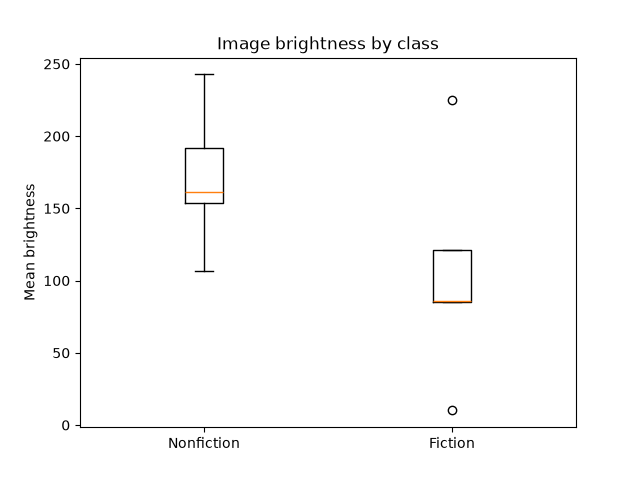
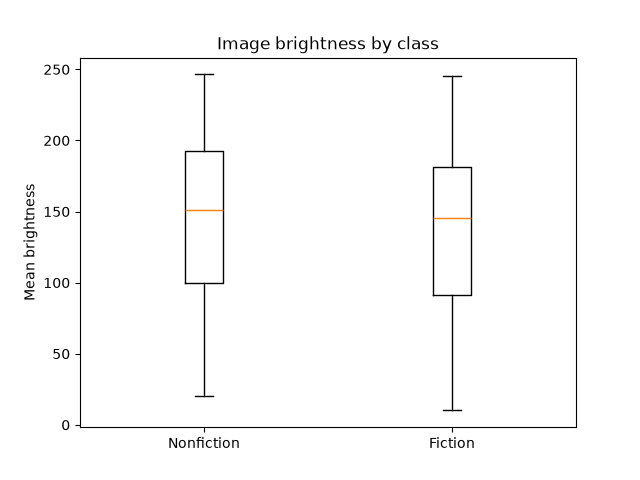
Testkodklass

diff --git a/src/train.py b/src/train.py
@@ -17,6 +17,8 @@ from textFeatures import tfidf_features
 from numericFeatures import numeric_features
 
 RANDOM_STATE = 42
+PROJECT_DIR = Path(__file__).resolve().parents[1]
+RESULTS_DIR = PROJECT_DIR / "results"
 
 # MultinomialNB fails on negative values, so it only runs on these feature sets.
 # StandardScaler (numeric features) and PCA (grayscale) produce negative values.
@@ -44,11 +46,12 @@ def get_feature_sets():
     }
 
 
-# Temporary until data/books_clean.csv exists (sync point 1).
-# Then replace with pd.read_csv("data/books_clean.csv").
-def load_raw_data(path="books_data_raw.json"):
+def load_raw_data(path=None):
     """Load the raw scraped JSON into a DataFrame with a label column."""
-    with open(path, encoding="utf-8") as f:
+    data_path = PROJECT_DIR / "books_data_raw.json" if path is None else Path(path)
+    if not data_path.is_absolute():
+        data_path = PROJECT_DIR / data_path
+    with data_path.open(encoding="utf-8") as f:
         records = json.load(f)
     df = pd.DataFrame(records)
     df["label"] = (df["category"] == "Fiction").astype(int)
@@ -123,14 +126,15 @@ def inspect_best_model(df):
         df["label"], preds, display_labels=["Nonfiction", "Fiction"]
     )
     plt.title(f"{BEST_FEATURES} + {BEST_MODEL}")
-    plt.savefig("results/confusion_matrix.png", dpi=150, bbox_inches="tight")
+    RESULTS_DIR.mkdir(exist_ok=True)
+    plt.savefig(RESULTS_DIR / "confusion_matrix.png", dpi=150, bbox_inches="tight")
     plt.close()
 
     is_wrong = preds != df["label"]
     wrong = df.loc[is_wrong, ["title", "category"]].copy()
     wrong["predicted"] = np.where(preds[is_wrong] == 1, "Fiction", "Nonfiction")
     print(f"\n{len(wrong)} misclassified books")
-    wrong.to_csv("results/misclassified.csv", index=False)
+    wrong.to_csv(RESULTS_DIR / "misclassified.csv", index=False)
 
     # Top words come from a model fitted on all the data, since they describe it rather than score it.
     if BEST_FEATURES == "TF-IDF" and BEST_MODEL == "Logistic regression":
@@ -150,7 +154,7 @@ def inspect_best_model(df):
         })
         print("\nTop words")
         print(top_words.round(3).to_string(index=False))
-        top_words.to_csv("results/top_words.csv", index=False)
+        top_words.to_csv(RESULTS_DIR / "top_words.csv", index=False)
     else:
         print("Top words are only available for TF-IDF + Logistic regression.")
 
@@ -160,7 +164,7 @@ if __name__ == "__main__":
     table = results_table(df)
     print(table.round(3).to_string(index=False))
 
-    Path("results").mkdir(exist_ok=True)
-    table.to_csv("results/results_table.csv", index=False)
+    RESULTS_DIR.mkdir(exist_ok=True)
+    table.to_csv(RESULTS_DIR / "results_table.csv", index=False)
 
     inspect_best_model(df)

diff --git a/src/imageAnalysis.py b/src/imageAnalysis.py
@@ -1,14 +1,18 @@
+import json
 import numpy as np
 import pandas as pd
 import matplotlib.pyplot as plt
 from PIL import Image
-import os
+from pathlib import Path
 
-project_dir = os.path.dirname(os.path.dirname(os.path.abspath(__file__)))
-results_dir = os.path.join(os.path.dirname(__file__), "..", "results")
+PROJECT_DIR = Path(__file__).resolve().parents[1]
+RESULTS_DIR = PROJECT_DIR / "results"
 
 def mean_colour_and_brightness(path):
-    with Image.open(path) as img:
+    image_path = Path(path)
+    if not image_path.is_absolute():
+        image_path = PROJECT_DIR / image_path
+    with Image.open(image_path) as img:
         rgb = np.asarray(img.convert("RGB"))
         gray = np.asarray(img.convert("L"))
     r = rgb[:, :, 0].mean()
@@ -17,15 +21,10 @@ def mean_colour_and_brightness(path):
     brightness = gray.mean()
     return r, g, b, brightness
 
-
 def main():
-    df = pd.DataFrame({
-        "img_path": [
-            os.path.join(project_dir, "test_images", f"{i}.jpg")
-            for i in range(10)
-        ],
-        "label": [1] * 5 + [0] * 5,
-    })
+    with (PROJECT_DIR / "books_data_raw.json").open(encoding="utf-8") as f:
+        df = pd.DataFrame(json.load(f))
+    df["label"] = (df["category"] == "Fiction").astype(int)
 
     rows = []
     for path in df["img_path"]:
@@ -38,14 +37,14 @@ def main():
     print(means)
     print(stats.groupby("label")["brightness"].mean())
 
-    os.makedirs(results_dir, exist_ok=True)
+    RESULTS_DIR.mkdir(exist_ok=True)
     means.rename(index={0: "Nonfiction", 1: "Fiction"}).plot(
         kind="bar", color=["red", "green", "blue"]
     )
     plt.ylabel("Mean RGB value")
     plt.title("Mean colour by class")
     plt.xticks(rotation=0)
-    plt.savefig(os.path.join(results_dir, "image_colour_by_class.png"))
+    plt.savefig(RESULTS_DIR / "image_colour_by_class.png")
     plt.close()
 
     brightness_by_class = [
@@ -55,7 +54,7 @@ def main():
     plt.boxplot(brightness_by_class, tick_labels=["Nonfiction", "Fiction"])
     plt.ylabel("Mean brightness")
     plt.title("Image brightness by class")
-    plt.savefig(os.path.join(results_dir, "image_brightness_by_class.png"))
+    plt.savefig(RESULTS_DIR / "image_brightness_by_class.png")
     plt.close()
 
 

diff --git a/src/scraper.py b/src/scraper.py
@@ -3,7 +3,9 @@ from urllib.parse import urljoin
 from bs4 import BeautifulSoup as bSoup
 import json
 import re
-import os
+from pathlib import Path
+
+PROJECT_DIR = Path(__file__).resolve().parents[1]
 
 # store url in variable urlFiction and urlNonFiction
 urlFiction = "https://books.toscrape.com/catalogue/category/books/fiction_10/index.html"
@@ -68,21 +70,22 @@ def get_book_details(book_url):
     }
 #image downloader 
 def download_image(img_url, upc):
-    os.makedirs("data/images", exist_ok=True)
-    img_path = f"data/images/{upc}.jpg"
+    relative_path = Path("data") / "images" / f"{upc}.jpg"
+    img_path = PROJECT_DIR / relative_path
+    img_path.parent.mkdir(parents=True, exist_ok=True)
 
-    if os.path.exists(img_path): 
-        return img_path
+    if img_path.exists():
+        return relative_path.as_posix()
     
     try:
         data = uOpen(img_url).read()
-        with open(img_path, "wb") as f:
+        with img_path.open("wb") as f:
             f.write(data)
     except Exception as e:
         print(f"Image failed for {upc}: {e}")
         return ""
 
-    return img_path
+    return relative_path.as_posix()
 
 # scrape every book across every page of one category
 # returns {book_title: {img, description, price} }
@@ -129,7 +132,7 @@ def main():
     nonFiction = scrape_category(urlNonFiction, "Nonfiction")
  
  
-    with open("books_data_raw.json", "w", encoding="utf-8") as f:
+    with (PROJECT_DIR / "books_data_raw.json").open("w", encoding="utf-8") as f:
         records = fiction + nonFiction
         json.dump(records, f, indent=2, ensure_ascii=False)
  

diff --git a/src/imageFeatures.py b/src/imageFeatures.py
@@ -3,10 +3,21 @@ from PIL import Image
 from sklearn.preprocessing import FunctionTransformer
 from sklearn.pipeline import make_pipeline
 from sklearn.decomposition import PCA
+from pathlib import Path
+
+
+PROJECT_DIR = Path(__file__).resolve().parents[1]
+
+
+def resolve_image_path(path):
+    image_path = Path(path)
+    if not image_path.is_absolute():
+        image_path = PROJECT_DIR / image_path
+    return image_path
 
 
 def histogram_one_image(path):
-    with Image.open(path) as img:
+    with Image.open(resolve_image_path(path)) as img:
         pixels = np.asarray(img.convert("RGB"))
 
     parts = []
@@ -31,7 +42,7 @@ def color_histogram():
 
 
 def gray_vector_one_image(path):
-    with Image.open(path) as img:
+    with Image.open(resolve_image_path(path)) as img:
         gray = img.convert("L").resize((32, 32))
         arr = np.asarray(gray)
     return arr.flatten() / 255
@@ -46,5 +57,5 @@ def load_gray_pixels(df):
 
 def grayscale_pca():
     return make_pipeline(
-        FunctionTransformer(load_gray_pixels), PCA(n_components=5)
+        FunctionTransformer(load_gray_pixels), PCA(n_components=28)
     )

diff --git a/src/textFeatures.py b/src/textFeatures.py
@@ -1,12 +1,19 @@
 import json
+from pathlib import Path
 import pandas as pd
 from sklearn.feature_extraction.text import TfidfVectorizer
 from sklearn.pipeline import make_pipeline
 from sklearn.preprocessing import FunctionTransformer
 
 
-def load_data(path="books_data_raw.json"):
-    with open(path, encoding="utf-8") as f:
+PROJECT_DIR = Path(__file__).resolve().parents[1]
+
+
+def load_data(path=None):
+    data_path = PROJECT_DIR / "books_data_raw.json" if path is None else Path(path)
+    if not data_path.is_absolute():
+        data_path = PROJECT_DIR / data_path
+    with data_path.open(encoding="utf-8") as f:
         raw = json.load(f)
 
     records = []
